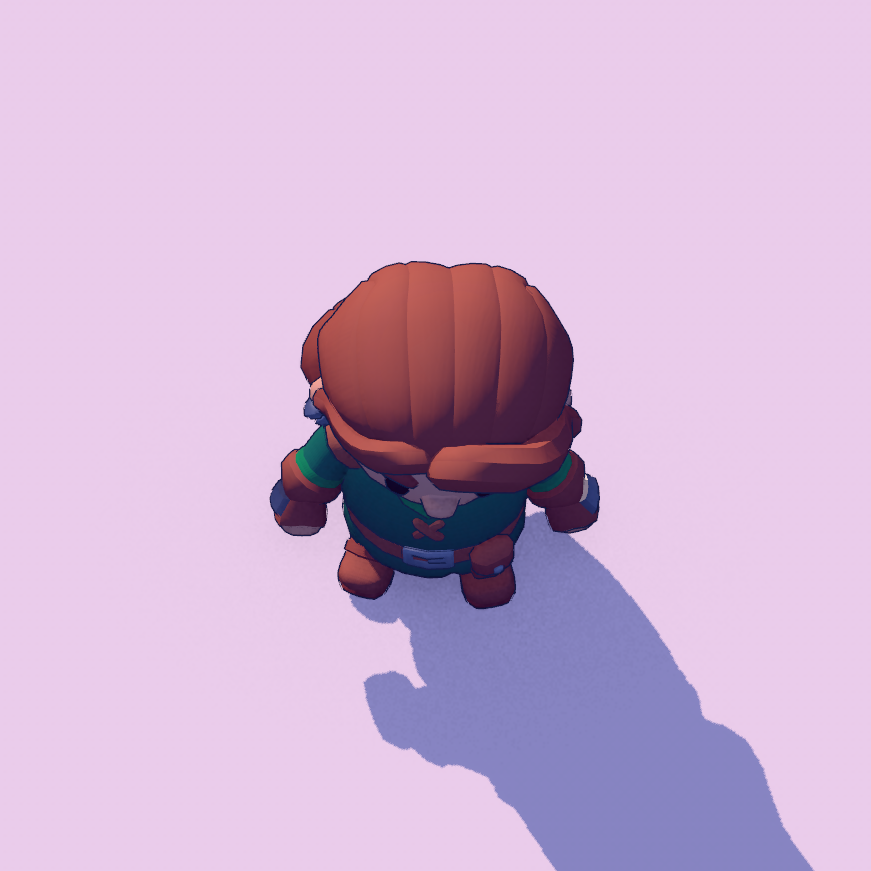
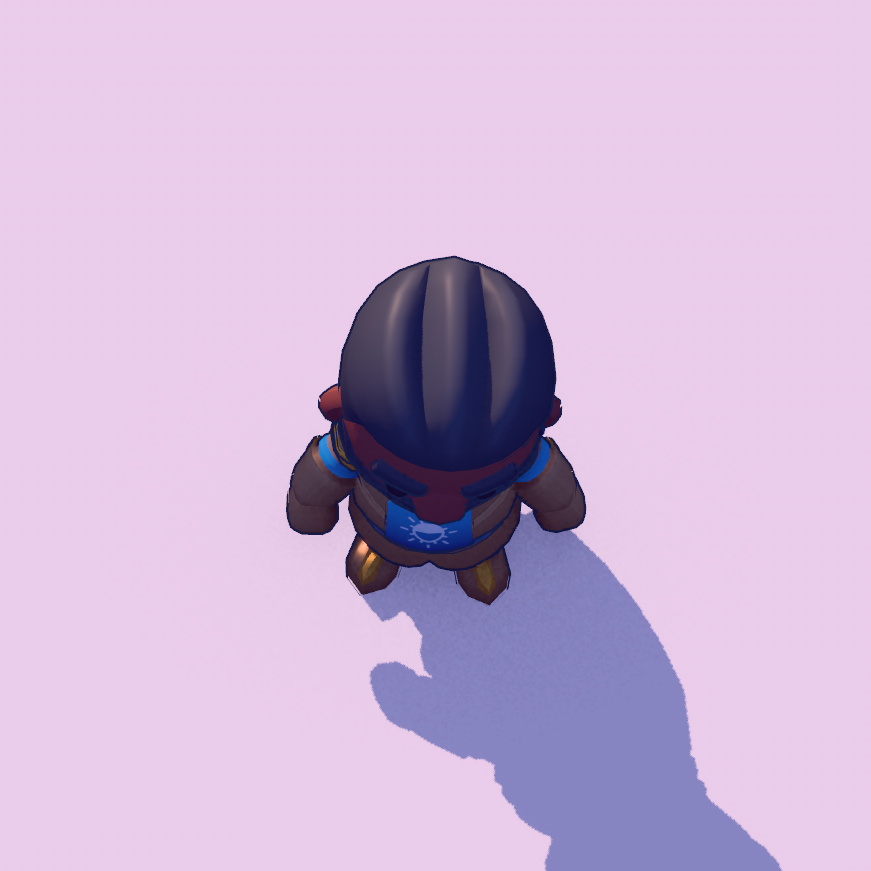
character tweaks

diff --git a/src/engine/render/GltfMesh.cpp b/src/engine/render/GltfMesh.cpp
@@ -26,6 +26,8 @@
 #include <cstdlib>
 #include <fstream>
 #include <limits>
+#include <optional>
+#include <span>
 #include <memory>
 #include <ranges>
 #include <stdexcept>
@@ -1432,6 +1434,8 @@ SkinnedMeshData loadGltfSkinnedMesh(
     Aabb bounds;
     for (cgltf_size meshIndex = 0; meshIndex < data.meshes_count; ++meshIndex) {
         const cgltf_mesh& sourceMesh = data.meshes[meshIndex];
+        std::optional<uint16_t> rigidJoint;
+        Mat4 rigidBindTransform = mat4Identity;
         for (cgltf_size primitiveIndex = 0;
              primitiveIndex < sourceMesh.primitives_count;
              ++primitiveIndex) {
@@ -1449,10 +1453,10 @@ SkinnedMeshData loadGltfSkinnedMesh(
                 primitive, cgltf_attribute_type_normal, "NORMAL");
             const cgltf_accessor& uvs = requiredAttribute(
                 primitive, cgltf_attribute_type_texcoord, "TEXCOORD_0");
-            const cgltf_accessor& joints = requiredAttribute(
-                primitive, cgltf_attribute_type_joints, "JOINTS_0");
-            const cgltf_accessor& weights = requiredAttribute(
-                primitive, cgltf_attribute_type_weights, "WEIGHTS_0");
+            const cgltf_accessor* joints =
+                findAttribute(primitive, cgltf_attribute_type_joints);
+            const cgltf_accessor* weights =
+                findAttribute(primitive, cgltf_attribute_type_weights);
             const cgltf_accessor* tangents =
                 findAttribute(primitive, cgltf_attribute_type_tangent);
             const cgltf_accessor* secondUvs =
@@ -1462,10 +1466,38 @@ SkinnedMeshData loadGltfSkinnedMesh(
 
             if (positions.count != normals.count ||
                 positions.count != uvs.count ||
-                positions.count != joints.count ||
-                positions.count != weights.count) {
+                (joints == nullptr) != (weights == nullptr) ||
+                (joints && (positions.count != joints->count ||
+                            positions.count != weights->count))) {
                 throw std::runtime_error(
                     "Incompatible skinned glTF primitive accessors");
+            }
+            if (!joints && !rigidJoint) {
+                const cgltf_node* rigidNode = nullptr;
+                for (const cgltf_node& node :
+                     std::span(data.nodes, data.nodes_count)) {
+                    if (node.mesh != &sourceMesh) {
+                        continue;
+                    }
+                    if (node.skin || rigidNode) {
+                        throw std::runtime_error(
+                            "Rigid glTF mesh must have exactly one unskinned node");
+                    }
+                    rigidNode = &node;
+                }
+                if (!rigidNode || mesh.jointNodeIndices.size() >
+                        std::numeric_limits<uint16_t>::max()) {
+                    throw std::runtime_error(
+                        "Cannot bind rigid glTF mesh to its node");
+                }
+                // Weight rigid parts to their own node so they inherit its
+                // animated parent transform. Their vertices are node-local.
+                rigidJoint = static_cast<uint16_t>(mesh.jointNodeIndices.size());
+                mesh.jointNodeIndices.push_back(
+                    static_cast<uint32_t>(cgltf_node_index(&data, rigidNode)));
+                mesh.inverseBindMatrices.push_back(mat4Identity);
+                cgltf_node_transform_world(
+                    rigidNode, rigidBindTransform.values.data());
             }
 
             const uint32_t baseVertex =
@@ -1473,8 +1505,10 @@ SkinnedMeshData loadGltfSkinnedMesh(
             mesh.vertices.reserve(mesh.vertices.size() + positions.count);
             for (size_t index = 0; index < positions.count; ++index) {
                 const Vec3 position = readVec3(positions, index);
-                auto jointValues = readJoints(joints, index);
-                auto weightValues = readWeights(weights, index);
+                auto jointValues = joints ? readJoints(*joints, index)
+                    : std::array<uint16_t, 4> { *rigidJoint, 0, 0, 0 };
+                auto weightValues = weights ? readWeights(*weights, index)
+                    : std::array { 1.0f, 0.0f, 0.0f, 0.0f };
                 const float totalWeight = weightValues[0] + weightValues[1] +
                     weightValues[2] + weightValues[3];
                 if (totalWeight > 0.000001f) {
@@ -1496,7 +1530,8 @@ SkinnedMeshData loadGltfSkinnedMesh(
                     .joints = jointValues,
                     .weights = weightValues,
                 });
-                bounds = expand(bounds, position);
+                bounds = expand(bounds, joints
+                    ? position : transformPoint(rigidBindTransform, position));
             }
 
             mesh.indices.reserve(mesh.indices.size() + indices.count);

diff --git a/src/engine/TileTypes.hpp b/src/engine/TileTypes.hpp
@@ -23,7 +23,7 @@ enum class TileType : uint8_t {
     RotatorClockwise,
     RotatorCounterClockwise,
     // Legacy generic player start. New puzzle documents author a concrete
-    // Rogue, Knight, Druid, Witch, Bard, or Cleric tile; overworld documents retain
+    // Paladin, Knight, Thief, Witch, Bard, or Cleric tile; overworld documents retain
     // this tile for backwards compatibility with their single Lorekeeper.
     Player,
     Rogue,
@@ -261,9 +261,9 @@ inline constexpr std::array<TileTypeDefinition, tileTypeCount> tileTypeDefinitio
     TileTypeDefinition { TileType::RotatorClockwise, ')', "Rotator Clockwise", { 0.24f, 0.62f, 0.92f, 1.0f }, {}, TileProperty::Plate },
     TileTypeDefinition { TileType::RotatorCounterClockwise, '(', "Rotator Counter-Clockwise", { 0.24f, 0.62f, 0.92f, 1.0f }, {}, TileProperty::Plate },
     TileTypeDefinition { TileType::Player, 'C', "Player", { 0.0f, 1.0f, 0.15f, 1.0f } },
-    TileTypeDefinition { TileType::Rogue, 'Q', "Rogue", { 0.0f, 1.0f, 0.15f, 1.0f } },
+    TileTypeDefinition { TileType::Rogue, 'Q', "Paladin", { 0.0f, 1.0f, 0.15f, 1.0f } },
     TileTypeDefinition { TileType::Knight, 'K', "Knight", { 0.25f, 0.55f, 1.0f, 1.0f } },
-    TileTypeDefinition { TileType::Druid, 'U', "Druid", { 0.35f, 0.72f, 0.28f, 1.0f } },
+    TileTypeDefinition { TileType::Druid, 'U', "Thief", { 0.35f, 0.72f, 0.28f, 1.0f } },
     TileTypeDefinition { TileType::Witch, 'H', "Witch", { 0.62f, 0.25f, 0.82f, 1.0f } },
     TileTypeDefinition { TileType::Bard, 'B', "Bard", { 0.94f, 0.44f, 0.82f, 1.0f } },
     TileTypeDefinition { TileType::Rock, 'R', "Rock", { 1.0f, 1.0f, 1.0f, 1.0f } },
@@ -315,9 +315,9 @@ inline constexpr std::array<TileTypeDefinition, tileTypeCount> tileTypeDefinitio
     TileTypeDefinition { TileType::LecternEast, 'j', "Lectern East", { 1.0f, 1.0f, 1.0f, 1.0f } },
     TileTypeDefinition { TileType::LecternWest, 'l', "Lectern West", { 1.0f, 1.0f, 1.0f, 1.0f } },
     TileTypeDefinition { TileType::WardrobeLorekeeper, '0', "Wardrobe Lorekeeper", { 1.0f, 1.0f, 1.0f, 1.0f } },
-    TileTypeDefinition { TileType::WardrobeRogue, '9', "Wardrobe Rogue", { 1.0f, 1.0f, 1.0f, 1.0f } },
+    TileTypeDefinition { TileType::WardrobeRogue, '9', "Wardrobe Paladin", { 1.0f, 1.0f, 1.0f, 1.0f } },
     TileTypeDefinition { TileType::WardrobeKnight, '+', "Wardrobe Knight", { 1.0f, 1.0f, 1.0f, 1.0f } },
-    TileTypeDefinition { TileType::WardrobeDruid, '*', "Wardrobe Druid", { 1.0f, 1.0f, 1.0f, 1.0f } },
+    TileTypeDefinition { TileType::WardrobeDruid, '*', "Wardrobe Thief", { 1.0f, 1.0f, 1.0f, 1.0f } },
     TileTypeDefinition { TileType::WardrobeWitch, '/', "Wardrobe Witch", { 1.0f, 1.0f, 1.0f, 1.0f } },
     TileTypeDefinition { TileType::WardrobeBard, '?', "Wardrobe Bard", { 1.0f, 1.0f, 1.0f, 1.0f } },
     TileTypeDefinition { TileType::WallStone02, 'd', "Wall Stone 02", { 1.0f, 1.0f, 1.0f, 1.0f } },

diff --git a/src/engine/Character.hpp b/src/engine/Character.hpp
@@ -8,6 +8,7 @@ namespace sokoban {
 
 // The character selected by a level. Gameplay abilities and the rendered
 // model both key off this value, while animations remain shared for now.
+// Rogue and Druid are the internal identities for Paladin and Thief.
 enum class CharacterType : uint8_t {
     Lorekeeper,
     Rogue,
@@ -25,11 +26,11 @@ enum class CharacterType : uint8_t {
     case CharacterType::Lorekeeper:
         return "lorekeeper";
     case CharacterType::Rogue:
-        return "rogue";
+        return "paladin";
     case CharacterType::Knight:
         return "knight";
     case CharacterType::Druid:
-        return "druid";
+        return "thief";
     case CharacterType::Witch:
         return "witch";
     case CharacterType::Bard:
@@ -37,7 +38,7 @@ enum class CharacterType : uint8_t {
     case CharacterType::Cleric:
         return "cleric";
     }
-    return "rogue";
+    return "paladin";
 }
 
 [[nodiscard]] constexpr std::optional<CharacterType> characterTypeFromName(
@@ -46,13 +47,13 @@ enum class CharacterType : uint8_t {
     if (name == "lorekeeper") {
         return CharacterType::Lorekeeper;
     }
-    if (name == "rogue") {
+    if (name == "paladin" || name == "rogue") {
         return CharacterType::Rogue;
     }
     if (name == "knight") {
         return CharacterType::Knight;
     }
-    if (name == "druid") {
+    if (name == "thief" || name == "druid") {
         return CharacterType::Druid;
     }
     if (name == "witch") {
@@ -67,7 +68,7 @@ enum class CharacterType : uint8_t {
     return std::nullopt;
 }
 
-// Lorekeeper is the overworld avatar. It intentionally inherits the Rogue's
+// Lorekeeper is the overworld avatar. It intentionally inherits the Paladin's
 // established rule set; the distinct value exists so rendering, saves and
 // wardrobes can retain the selected appearance without inventing a new
 // gameplay ability.

diff --git a/src/engine/Solution.cpp b/src/engine/Solution.cpp
@@ -109,6 +109,19 @@ uint8_t parseTurns(const Json& value)
     return turns;
 }
 
+// Version 1 recordings use these identifiers in saved states and digests.
+std::string_view solutionCharacterName(CharacterType character)
+{
+    switch (character) {
+    case CharacterType::Rogue:
+        return "rogue";
+    case CharacterType::Druid:
+        return "druid";
+    default:
+        return characterTypeName(character);
+    }
+}
+
 Json stateJson(
     const GameState& state,
     EntityId activeController,
@@ -133,7 +146,7 @@ Json stateJson(
                 { "id", player.id },
                 { "cell", cellJson(player.cell) },
                 { "character",
-                  player.character ? Json(characterTypeName(*player.character))
+                  player.character ? Json(solutionCharacterName(*player.character))
                                    : Json(nullptr) },
                 { "controller", player.controller },
                 { "dead", player.dead },
@@ -190,7 +203,7 @@ Json stateJson(
         result["wardrobes"].push_back(
             {
                 { "cell", cellJson(wardrobe.cell) },
-                { "character", characterTypeName(wardrobe.character) },
+                { "character", solutionCharacterName(wardrobe.character) },
             });
     }
     for (const auto button : state.activeButtons) {
@@ -560,7 +573,7 @@ std::uint64_t levelDigest(const Level::Definition& definition)
     hashBytes(
         hash,
         definition.character
-            ? std::string(characterTypeName(*definition.character))
+            ? std::string(solutionCharacterName(*definition.character))
             : std::string("default"));
     // Rotator links decide which plates turn which units. Hashed only when
     // present so digests of screens without rotators stay unchanged.

diff --git a/tests/TileThumbnailBakeTests.cpp b/tests/TileThumbnailBakeTests.cpp
@@ -51,7 +51,7 @@ const AssetManifest& testManifest(bool components = false)
         { "name": "PulseButton", "path": "pulse_button.glb", "preserveSourceScale": true },
         { "name": "LeverOff", "path": "lever_off.glb", "preserveSourceScale": true },
         { "name": "LeverOn", "path": "lever_on.glb", "preserveSourceScale": true },
-        { "name": "Druid", "path": "d.glb", "geometry": "skinned" },
+        { "name": "Thief", "path": "d.glb", "geometry": "skinned" },
         { "name": "Witch", "path": "w.glb", "geometry": "skinned" },
         { "name": "Bard", "path": "b.glb", "geometry": "skinned" },
         { "name": "Cleric", "path": "cleric.glb", "geometry": "skinned" },
@@ -87,9 +87,9 @@ const AssetManifest& testManifest(bool components = false)
         { "tile": "Lever West", "model": "LeverOff" },
         { "tile": "Player", "model": "Hero" },
         { "tile": "Wardrobe Lorekeeper", "model": "Wardrobe" },
-        { "tile": "Wardrobe Rogue", "model": "Wardrobe" },
+        { "tile": "Wardrobe Paladin", "model": "Wardrobe" },
         { "tile": "Wardrobe Knight", "model": "Wardrobe" },
-        { "tile": "Wardrobe Druid", "model": "Wardrobe" },
+        { "tile": "Wardrobe Thief", "model": "Wardrobe" },
         { "tile": "Wardrobe Witch", "model": "Wardrobe" },
         { "tile": "Wardrobe Bard", "model": "Wardrobe" },
         { "tile": "Wardrobe Cleric", "model": "Wardrobe" }

diff --git a/tests/AssetManifestTests.cpp b/tests/AssetManifestTests.cpp
@@ -513,8 +513,20 @@ void testRealManifestFile()
         "real manifest resolves the knight character model");
     CHECK_MESSAGE(
         manifest.characterModel(sokoban::CharacterType::Druid) ==
-            manifest.modelIdByName("Druid"),
-        "real manifest resolves the druid character model");
+            manifest.modelIdByName("Thief"),
+        "real manifest resolves the thief character model");
+    CHECK_MESSAGE(
+        manifest.characterModel(sokoban::CharacterType::Rogue) ==
+            manifest.modelIdByName("Paladin"),
+        "real manifest resolves the paladin character model");
+    CHECK(manifest.model(manifest.modelIdByName("Thief")).path ==
+        "KayKit Adventurers 2.0/Characters/gltf/Rogue_Hooded.glb");
+    const auto& paladinModel = manifest.model(manifest.playerModel());
+    CHECK(paladinModel.path == "KayKit Paladin/characters/gltf/Paladin.glb");
+    const auto paladinMesh = sokoban::loadGltfSkinnedMesh(*root / paladinModel.path);
+    CHECK(!paladinMesh.jointNodeIndices.empty());
+    CHECK(paladinMesh.nodes.at(paladinMesh.jointNodeIndices.back()).name ==
+        "Paladin_Cape");
     CHECK_MESSAGE(
         manifest.characterModel(sokoban::CharacterType::Witch) ==
             manifest.modelIdByName("Witch"),

diff --git a/tests/LevelTests.cpp b/tests/LevelTests.cpp
@@ -347,7 +347,20 @@ void testCharacterMetadataRoundTripAndLegacyDefault()
     druidDefinition.character = CharacterType::Druid;
     const std::vector<std::string> druidSerialized =
         Level::serializeDefinition(druidDefinition);
-    CHECK(druidSerialized[0] == "@character druid");
+    CHECK(druidSerialized[0] == "@character thief");
+    auto legacyDruid = druidSerialized;
+    legacyDruid[0] = "@character druid";
+    CHECK(Level::parseDefinition(legacyDruid, "legacy druid") == druidDefinition);
+
+    auto paladinDefinition = definition;
+    paladinDefinition.character = CharacterType::Rogue;
+    auto paladinSerialized = Level::serializeDefinition(paladinDefinition);
+    CHECK(paladinSerialized[0] == "@character paladin");
+    CHECK(Level::parseDefinition(paladinSerialized, "paladin round trip") ==
+        paladinDefinition);
+    paladinSerialized[0] = "@character rogue";
+    CHECK(Level::parseDefinition(paladinSerialized, "legacy rogue") ==
+        paladinDefinition);
     CHECK(Level::parseDefinition(druidSerialized, "druid round trip") ==
         druidDefinition);
 

diff --git a/src/engine/AssetManifestDebugUi.cpp b/src/engine/AssetManifestDebugUi.cpp
@@ -825,7 +825,7 @@ void AssetManifestDebugUi::drawMusic(AssetManifestEditor& editor)
             }
             if (track.character) {
                 int character = static_cast<int>(*track.character);
-                if (ImGui::Combo("Character", &character, "Lorekeeper\0Rogue\0Knight\0Druid\0Witch\0Bard\0Cleric\0")) {
+                if (ImGui::Combo("Character", &character, "Lorekeeper\0Paladin\0Knight\0Thief\0Witch\0Bard\0Cleric\0")) {
                     track.character = static_cast<CharacterType>(character);
                     changed = true;
                 }

diff --git a/src/engine/Level.cpp b/src/engine/Level.cpp
@@ -1414,7 +1414,7 @@ Level::Definition Level::parseDefinition(
             if (!definition.character) {
                 throw std::runtime_error(
                     "Invalid character metadata; expected '@character lorekeeper', "
-                    "'@character rogue', '@character knight', '@character druid', "
+                    "'@character paladin', '@character knight', '@character thief', "
                     "'@character witch', '@character bard', or '@character cleric': " + source);
             }
             continue;

diff --git a/src/engine/TileTypes.cpp b/src/engine/TileTypes.cpp
@@ -86,6 +86,18 @@ std::string_view tileTypeName(TileType type)
 
 std::optional<TileType> tileTypeFromName(std::string_view name)
 {
+    if (name == "Rogue") {
+        return TileType::Rogue;
+    }
+    if (name == "Druid") {
+        return TileType::Druid;
+    }
+    if (name == "Wardrobe Rogue") {
+        return TileType::WardrobeRogue;
+    }
+    if (name == "Wardrobe Druid") {
+        return TileType::WardrobeDruid;
+    }
     if (name == "Portal") {
         return TileType::PortalNorth;
     }

diff --git a/src/engine/OverworldMap.cpp b/src/engine/OverworldMap.cpp
@@ -237,7 +237,7 @@ void validateComponentDefinition(
         authoredCharacter != CharacterType::Rogue) {
         throw std::runtime_error(
             "overworld screen " + name +
-            " must use character lorekeeper (legacy rogue is also accepted)");
+            " must use character lorekeeper (paladin or legacy rogue is also accepted)");
     }
     for (std::size_t z = 0; z < definition.layers.size(); ++z) {
         const auto& layer = definition.layers[z];

diff --git a/src/engine/AssetManifest.cpp b/src/engine/AssetManifest.cpp
@@ -775,7 +775,7 @@ RenderModel AssetManifest::characterModel(CharacterType character) const
     case CharacterType::Knight:
         return modelIdByName("Knight");
     case CharacterType::Druid:
-        return modelIdByName("Druid");
+        return modelIdByName("Thief");
     case CharacterType::Witch:
         return modelIdByName("Witch");
     case CharacterType::Bard:
